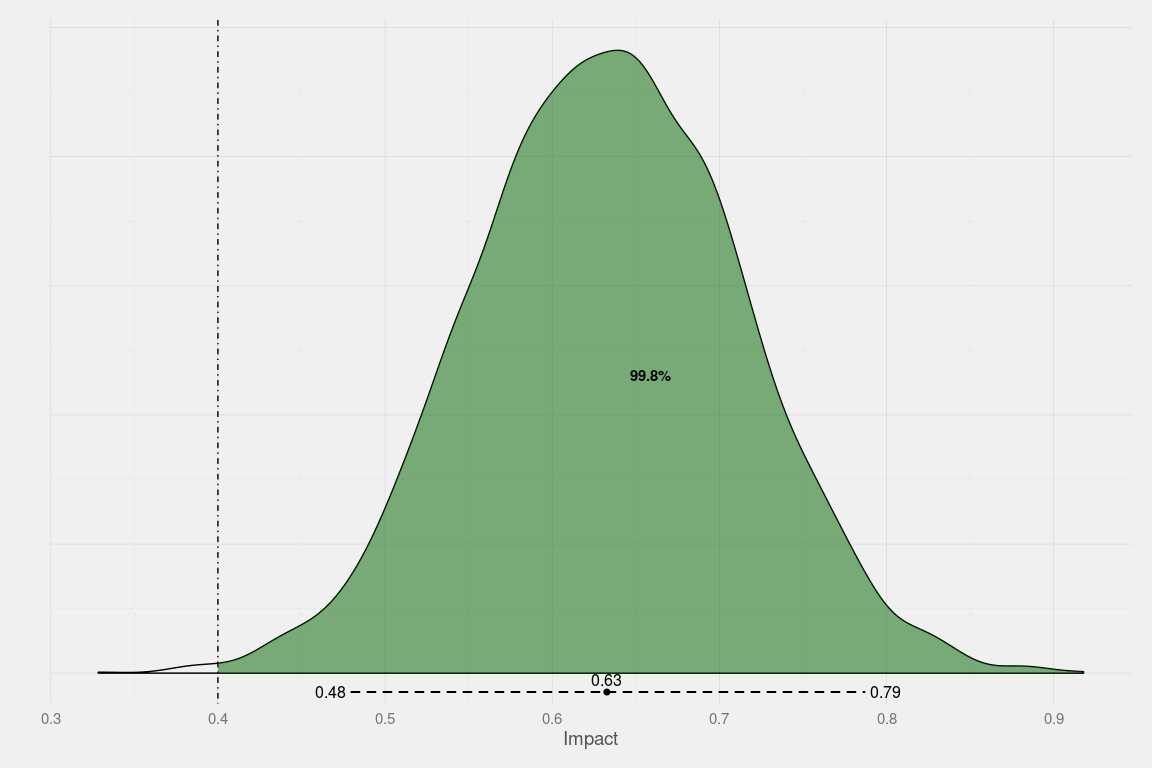
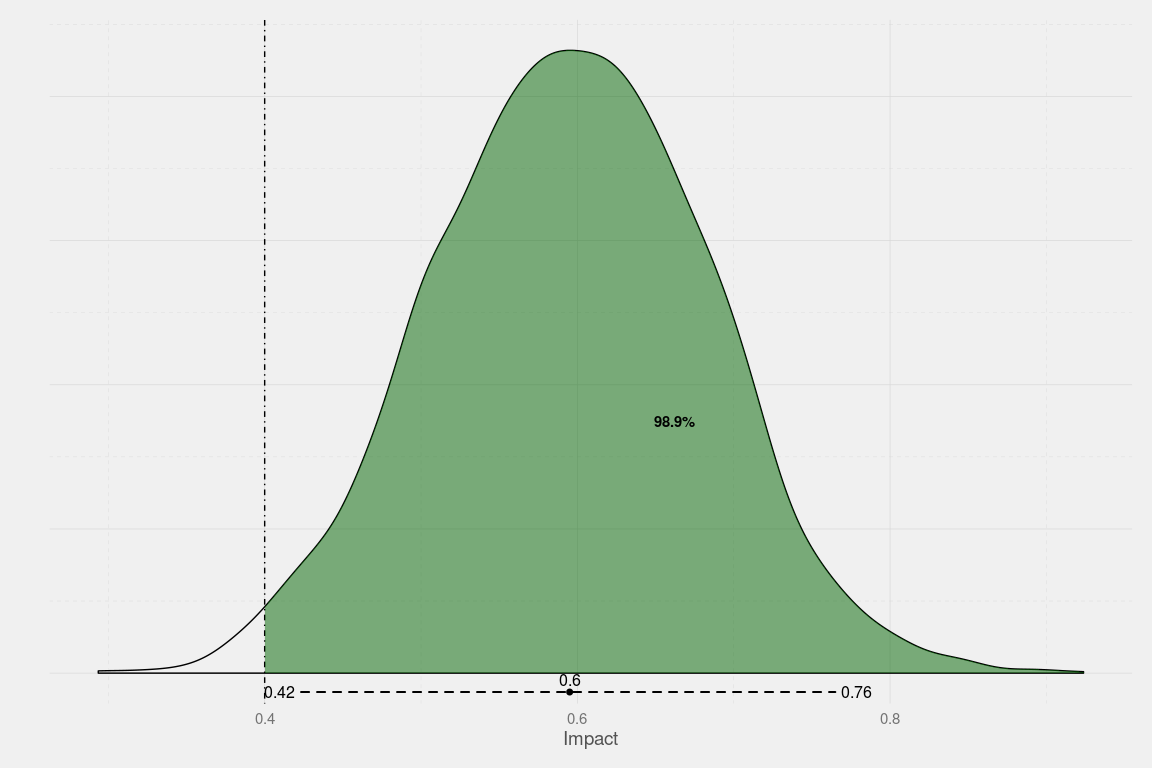
rename the package to easybayesian and fixes various bugs

diff --git a/README.md b/README.md
@@ -11,6 +11,7 @@ Create some fake data:
 ----------------------
 
 ``` r
+set.seed(9782)
 library(dplyr)
 #> 
 #> Attaching package: 'dplyr'
@@ -33,7 +34,7 @@ Run stan lm
 -----------
 
 ``` r
-library(lmstan)
+library(easybayesian)
 library(rstan)
 #> Loading required package: ggplot2
 #> rstan (Version 2.9.0-3, packaged: 2016-02-11 15:54:41 UTC, GitRev: 05c3d0058b6a)
@@ -86,7 +87,7 @@ x2
 <td style="padding-right: 12px; border: none;">
 </td>
 <td style="padding-right: 12px; border: none;">
-\[0.74; 0.78\]
+\[0.73; 0.78\]
 </td>
 </tr>
 <tr>
@@ -94,14 +95,14 @@ x2
 Tr
 </td>
 <td style="padding-right: 12px; border: none;">
-0.63<sup style="vertical-align: 0px;">\*</sup>
+0.59<sup style="vertical-align: 0px;">\*</sup>
 </td>
 </tr>
 <tr>
 <td style="padding-right: 12px; border: none;">
 </td>
 <td style="padding-right: 12px; border: none;">
-\[0.48; 0.78\]
+\[0.43; 0.76\]
 </td>
 </tr>
 <tr>
@@ -109,14 +110,14 @@ Tr
 Constant
 </td>
 <td style="padding-right: 12px; border: none;">
--0.05
+-0.11
 </td>
 </tr>
 <tr>
 <td style="padding-right: 12px; border: none;">
 </td>
 <td style="padding-right: 12px; border: none;">
-\[-0.27; 0.18\]
+\[-0.34; 0.12\]
 </td>
 </tr>
 <tr>
@@ -156,23 +157,23 @@ gof.table(lm1, caption = "My caption!")
 <tbody>
 <tr class="odd">
 <td align="left"><pre><code>**x1**</code></pre></td>
-<td align="left"><p>0.9997</p></td>
-<td align="left"><p>3178</p></td>
+<td align="left"><p>1.001</p></td>
+<td align="left"><p>2859</p></td>
 </tr>
 <tr class="even">
 <td align="left"><pre><code>**x2**</code></pre></td>
-<td align="left"><p>0.9999</p></td>
-<td align="left"><p>3247</p></td>
+<td align="left"><p>1</p></td>
+<td align="left"><p>2987</p></td>
 </tr>
 <tr class="odd">
 <td align="left"><pre><code>**Tr**</code></pre></td>
-<td align="left"><p>0.9994</p></td>
-<td align="left"><p>3124</p></td>
+<td align="left"><p>1</p></td>
+<td align="left"><p>2960</p></td>
 </tr>
 <tr class="even">
 <td align="left"><p><strong>Constant</strong></p></td>
-<td align="left"><p>1</p></td>
-<td align="left"><p>3229</p></td>
+<td align="left"><p>0.9997</p></td>
+<td align="left"><p>3057</p></td>
 </tr>
 </tbody>
 </table>
@@ -180,17 +181,17 @@ gof.table(lm1, caption = "My caption!")
 ### Plot
 
 ``` r
-posteriorplot(model = lm1, parameter = Tr, cutoff = 0.4)
+posteriorplot(model = lm1, parameter = "Tr", cutoff = 0.4)
 ```
 
-![](README-unnamed-chunk-6-1.png)<!-- -->
+![](README-unnamed-chunk-6-1.png)<!-- -->![](README-unnamed-chunk-6-2.png)<!-- -->
 
 ### Interpret
 
 ``` r
-interpret(model = lm1, name = Tr, cutoff = 0)
+interpret(model = lm1, name = "Tr", cutoff = 0)
 #> [[1]]
-#> [1] "There is a 95% probability that the true impact of the intervention is between 0.48 and 0.78 units."
+#> [1] "There is a 95% probability that the true impact of the intervention is between 0.43 and 0.76 units."
 #> 
 #> [[2]]
 #> [1] "There is a 100% probability that the intervention increases the outcome by 0 units or more."
@@ -246,7 +247,7 @@ x2
 <td style="padding-right: 12px; border: none;">
 </td>
 <td style="padding-right: 12px; border: none;">
-\[0.74; 0.78\]
+\[0.73; 0.78\]
 </td>
 </tr>
 <tr>
@@ -254,14 +255,14 @@ x2
 Tr
 </td>
 <td style="padding-right: 12px; border: none;">
-0.63<sup style="vertical-align: 0px;">\*</sup>
+0.60<sup style="vertical-align: 0px;">\*</sup>
 </td>
 </tr>
 <tr>
 <td style="padding-right: 12px; border: none;">
 </td>
 <td style="padding-right: 12px; border: none;">
-\[0.48; 0.79\]
+\[0.42; 0.76\]
 </td>
 </tr>
 <tr>
@@ -269,14 +270,14 @@ Tr
 Constant
 </td>
 <td style="padding-right: 12px; border: none;">
--0.05
+-0.11
 </td>
 </tr>
 <tr>
 <td style="padding-right: 12px; border: none;">
 </td>
 <td style="padding-right: 12px; border: none;">
-\[-0.27; 0.18\]
+\[-0.34; 0.13\]
 </td>
 </tr>
 <tr>
@@ -324,7 +325,7 @@ gof.table(lm1, caption = "My caption!")
 <tbody>
 <tr class="odd">
 <td align="left"><pre><code>**x1**</code></pre></td>
-<td align="left"><p>0.9995</p></td>
+<td align="left"><p>0.9999</p></td>
 <td align="left"><p>4000</p></td>
 </tr>
 <tr class="even">
@@ -334,12 +335,12 @@ gof.table(lm1, caption = "My caption!")
 </tr>
 <tr class="odd">
 <td align="left"><pre><code>**Tr**</code></pre></td>
-<td align="left"><p>1</p></td>
+<td align="left"><p>0.9999</p></td>
 <td align="left"><p>4000</p></td>
 </tr>
 <tr class="even">
 <td align="left"><p><strong>Constant</strong></p></td>
-<td align="left"><p>0.9998</p></td>
+<td align="left"><p>1</p></td>
 <td align="left"><p>4000</p></td>
 </tr>
 </tbody>
@@ -348,17 +349,17 @@ gof.table(lm1, caption = "My caption!")
 ### Plot
 
 ``` r
-posteriorplot(model = lm1, parameter = Tr, cutoff = 0.4)
+posteriorplot(model = lm1, parameter = "Tr", cutoff = 0.4)
 ```
 
-![](README-unnamed-chunk-11-1.png)<!-- -->
+![](README-unnamed-chunk-11-1.png)<!-- -->![](README-unnamed-chunk-11-2.png)<!-- -->
 
 ### Interpret
 
 ``` r
-interpret(model = lm1, name = Tr, cutoff = 0)
+interpret(model = lm1, name = "Tr", cutoff = 0)
 #> [[1]]
-#> [1] "There is a 95% probability that the true impact of the intervention is between 0.48 and 0.79 units."
+#> [1] "There is a 95% probability that the true impact of the intervention is between 0.42 and 0.76 units."
 #> 
 #> [[2]]
 #> [1] "There is a 100% probability that the intervention increases the outcome by 0 units or more."
@@ -369,4 +370,4 @@ How do I get it?
 
 For now, this package is not public. But if you are here, I probably want to share it with you.
 
-To install the package you can run `devtools::install_github(repo = 'ignacio82/lmstan', auth_token = '40748ac7538e4b47244a58cf9b1479d48e7bd531')`
+To install the package you can run `devtools::install_github(repo = 'ignacio82/easybayesian', auth_token = '40748ac7538e4b47244a58cf9b1479d48e7bd531')`
